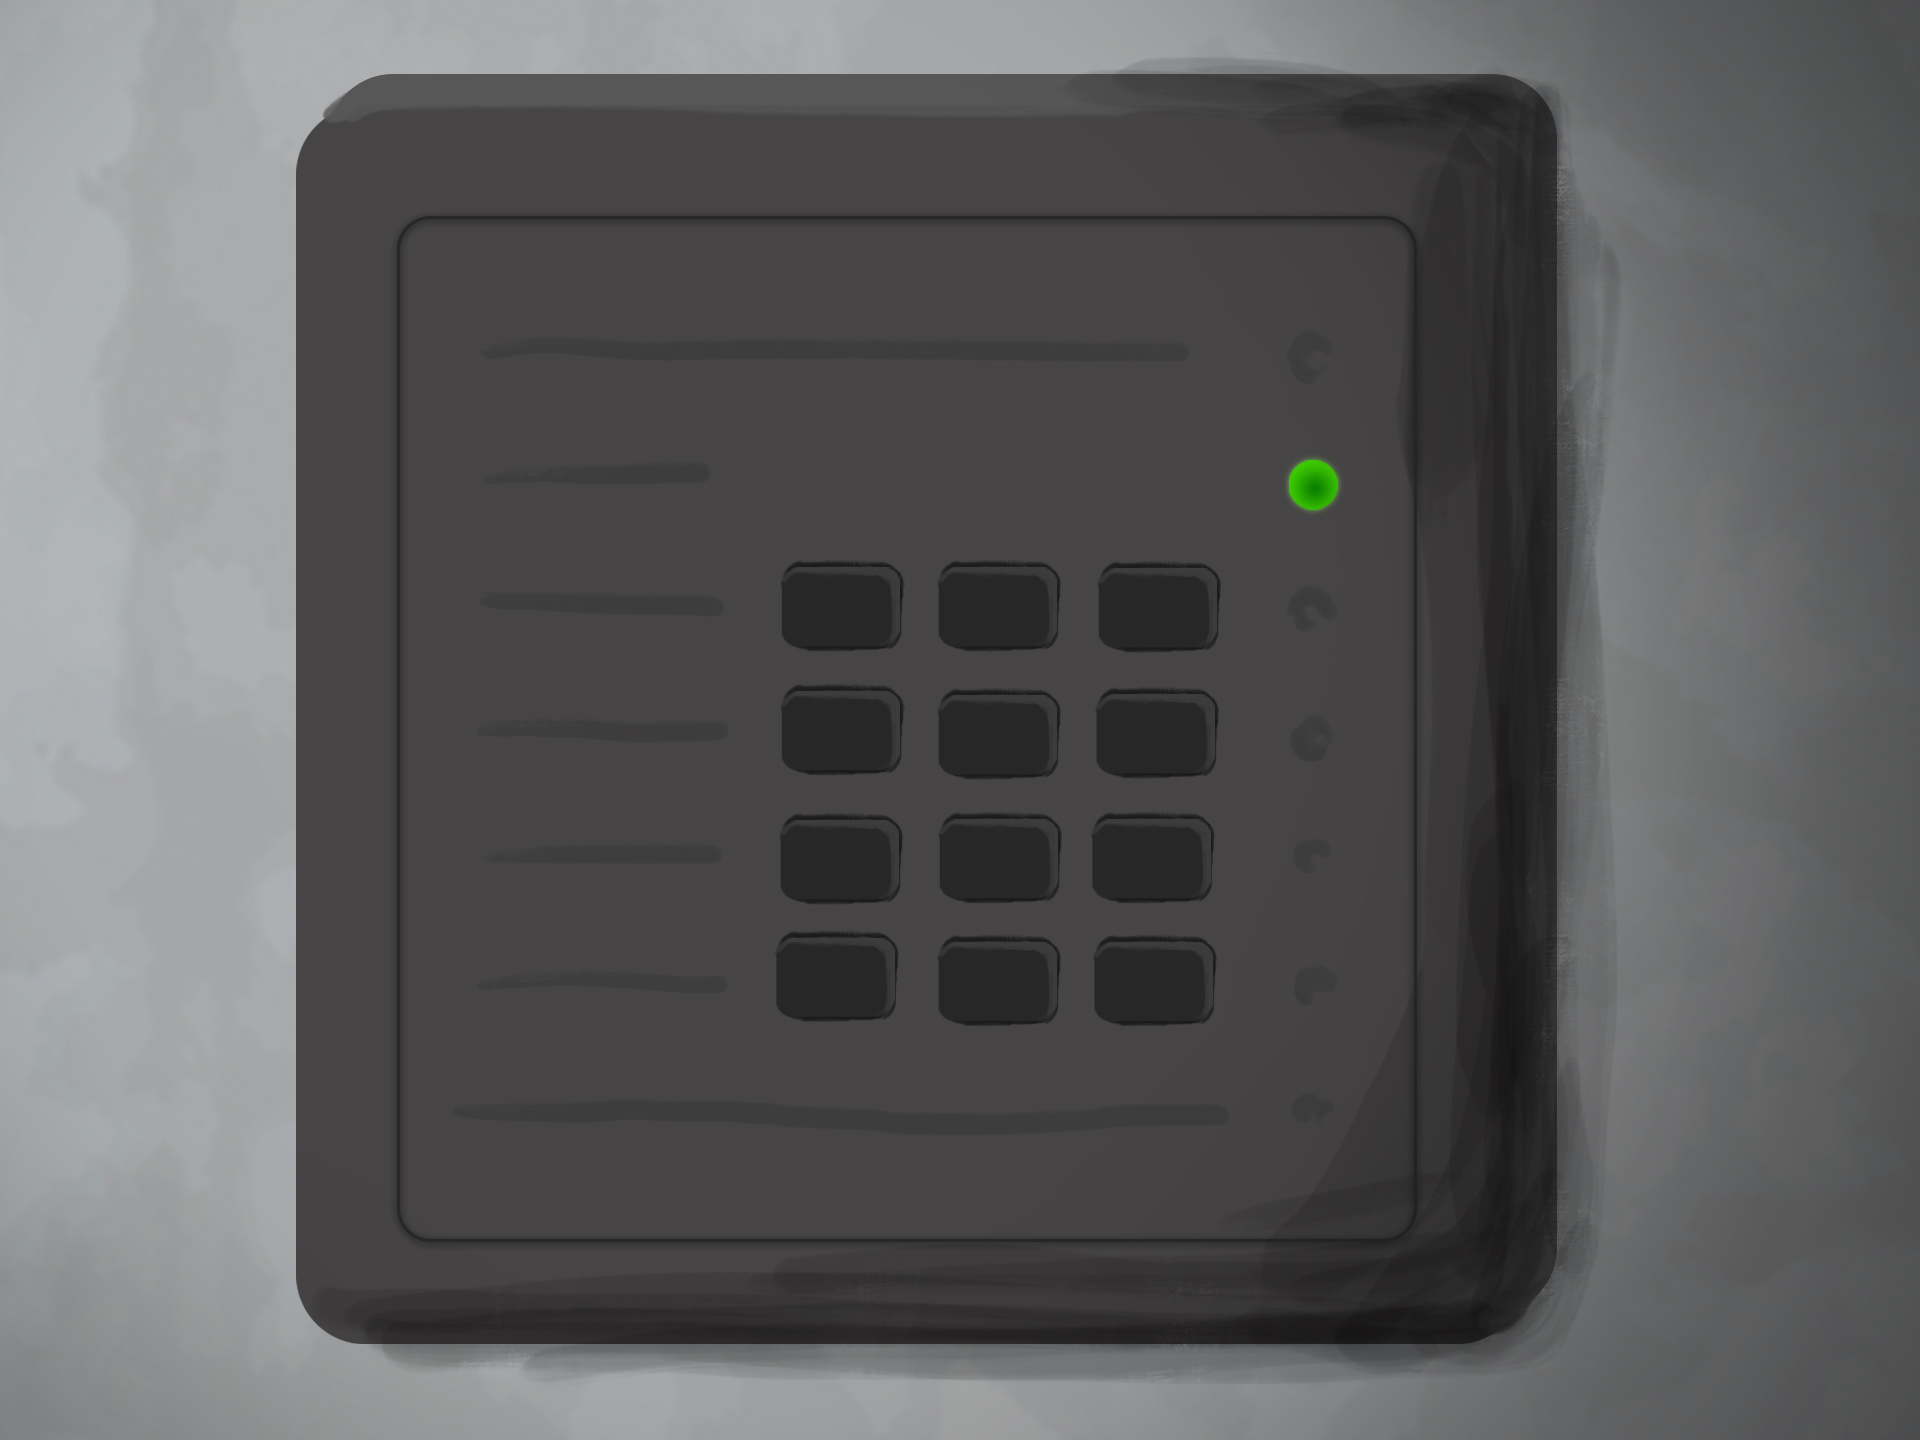
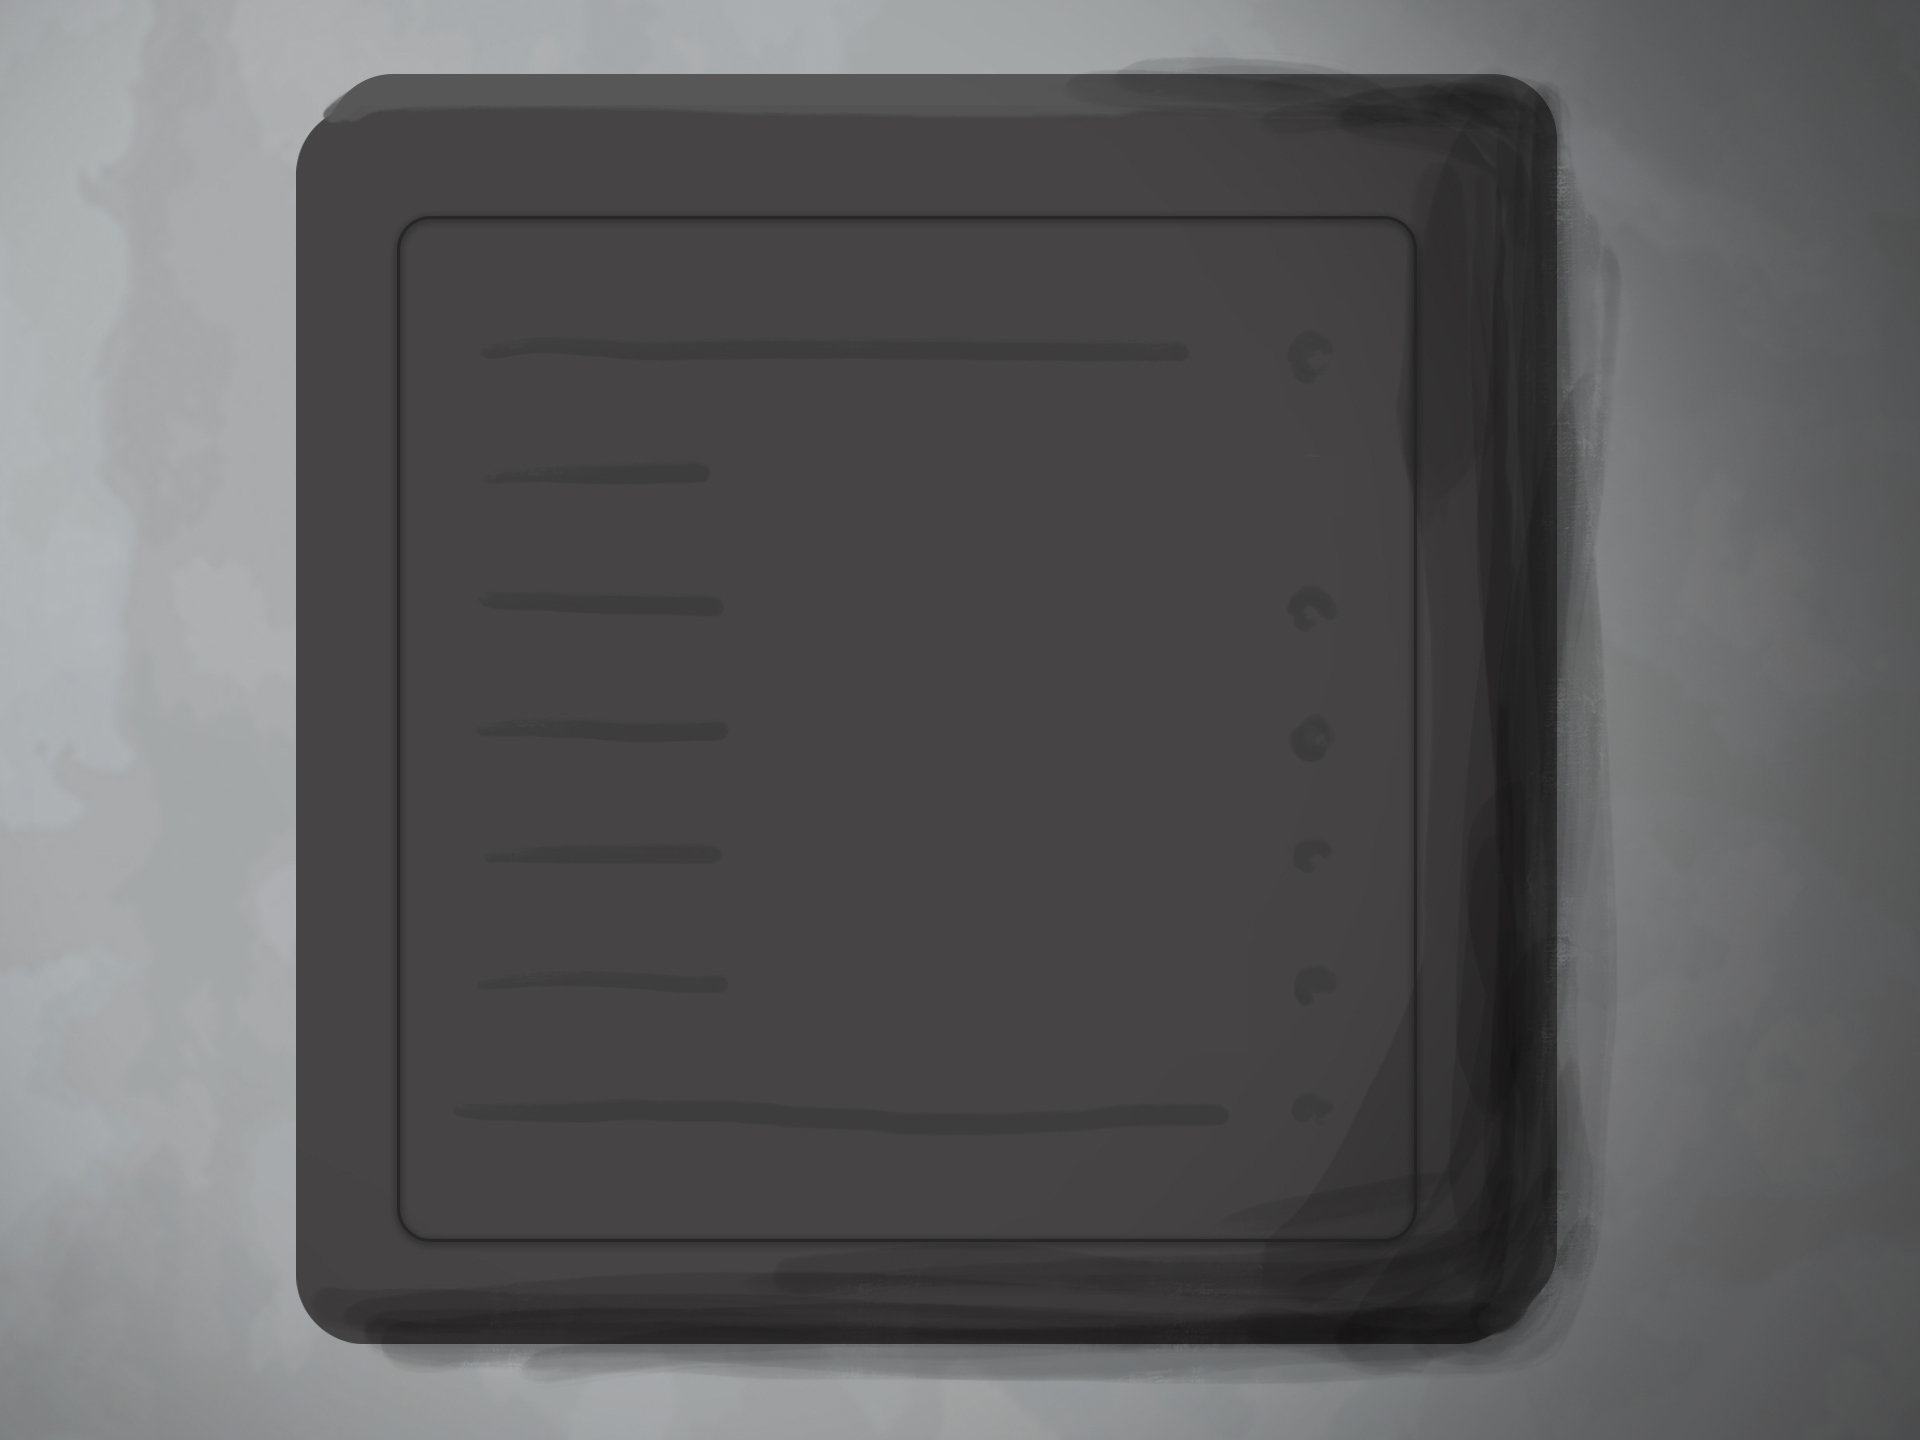
Strongbox first steps

Changed region(s): [[0.4062, 0.375, 0.6562, 0.7188], [0.6562, 0.3125, 0.7188, 0.375]]

diff --git a/apps/strongbox/app/components/App.jsx b/apps/strongbox/app/components/App.jsx
@@ -9,7 +9,6 @@ import * as Utils from '../vendors/Utils.js';
 import * as I18n from '../vendors/I18n.js';
 import * as LocalStorage from '../vendors/Storage.js';
 
-import Header from './Header.jsx';
 import MainScreen from './MainScreen.jsx';
 
 let escapp;
@@ -17,9 +16,6 @@ let escapp;
 export class App extends React.Component {
   constructor(props){
     super(props);
-    this.state = {
-      completionDialogShown:false,
-    };
     this.saveState = this.saveState.bind(this);
     this.onPuzzleCompleted = this.onPuzzleCompleted.bind(this);
     this.reset = this.reset.bind(this);
@@ -65,55 +61,16 @@ export class App extends React.Component {
     this.props.dispatch(loaded(true));
   }
   onPuzzleCompleted(puzzle_id){
-    if(puzzle_id === 7){
-      this.setState({completionDialogShown:false});
-    }
     this.props.dispatch(changePuzzle(puzzle_id));
     this.saveState();
   }
   render(){
-    let appHeader = "";
-    let appContent = "";
-    let currentScreen = this.props.screen;
-
-    console.log("LOADING")
-    console.log(this.props.loading);
-
     if(this.props.loading){
       return "";
     }
 
-    appHeader = (
-      <Header config={GLOBAL_CONFIG} I18n={I18n} isLogged={((currentScreen !== 1) && (this.props.puzzle > 0))} onClickHome={this.onClickHome} onClickMail={this.onClickMail} onClickRepository={this.onClickRepository} onClickInfo={this.onClickInfo} onClickVaccine={this.onClickVaccine} onClickCloseSession={this.onClickCloseSession} current_puzzle={this.props.puzzle}/>
-    );
-
-    console.log("CURRENT SCREEN")
-    console.log(currentScreen);
-
-    switch (currentScreen){
-    case 1:
-      // MainScreen
-      appContent = (
-        <MainScreen dispatch={this.props.dispatch} config={GLOBAL_CONFIG} I18n={I18n} Utils={Utils} escapp={escapp} onPuzzleCompleted={this.onPuzzleCompleted} current_puzzle={this.props.puzzle}/>
-      );
-      break;
-    default:
-      // Default
-    }
-
-    // Finish screen
-    // if((this.props.puzzle > 6) && (this.state.completionDialogShown === false)){
-    //   this.setState({completionDialogShown:true});
-    //   setTimeout(function(){
-    //     escapp.displayCompletionDialog();
-    //   }, 500);
-    // }
-
     return (
-      <div id="container">
-        {appHeader}
-        {appContent}
-      </div>
+        <MainScreen dispatch={this.props.dispatch} config={GLOBAL_CONFIG} I18n={I18n} Utils={Utils} escapp={escapp} onPuzzleCompleted={this.onPuzzleCompleted} current_puzzle={this.props.puzzle}/>
     );
   }
 }

diff --git a/apps/strongbox/app/components/MainScreen.jsx b/apps/strongbox/app/components/MainScreen.jsx
@@ -1,5 +1,6 @@
 import React from 'react';
 import {changeScreen} from '../reducers/actions.jsx';
+import BoxButton from './BoxButton.jsx';
 import './../assets/scss/main.scss';
 
 export default class MainScreen extends React.Component {
@@ -9,8 +10,19 @@ export default class MainScreen extends React.Component {
 
   render(){
     return (
-      <div className="screen_wrapper screen_main">
-        <p>Main Screen</p>
+      <div id="container">
+        <BoxButton value={"1"} position={1}/>
+        <BoxButton value={"2"} position={2}/>
+        <BoxButton value={"3"} position={3}/>
+        <BoxButton value={"4"} position={4}/>
+        <BoxButton value={"5"} position={5}/>
+        <BoxButton value={"6"} position={6}/>
+        <BoxButton value={"7"} position={7}/>
+        <BoxButton value={"8"} position={8}/>
+        <BoxButton value={"9"} position={9}/>
+        <BoxButton value={"*"} position={10}/>
+        <BoxButton value={"0"} position={11}/>
+        <BoxButton value={"#"} position={12}/>
       </div>
     );
   }

diff --git a/apps/strongbox/app/assets/scss/main.scss b/apps/strongbox/app/assets/scss/main.scss
@@ -1,6 +1,39 @@
-div.screen_wrapper.screen_main {
+div#container {
 	background-image: url("../images/background.jpg");
 	background-position: center;
 	background-repeat: no-repeat;
-	background-size: cover; 
+	background-size: contain;
+}
+
+div.boxButton {
+	background-image: url("../images/background_number.jpg");
+	background-position: center;
+	background-repeat: no-repeat;
+	background-size: contain;
+	display: flex;
+	width: 70px;
+	height: 70px;
+	color: white;
+}
+
+div.boxButton li {
+	display: flex;
+	justify-content: center;
+	align-content: center;
+	flex-direction: column;
+	width: 100%;
+	height: 100%;
+	text-align: center;
+	font-size: 2vw;
+	font-family: "Consolas", "Roboto", sans-serif;
+  	-webkit-touch-callout: none;
+    -webkit-user-select: none;
+    -khtml-user-select: none; 
+    -moz-user-select: none;
+    -ms-user-select: none; 
+    user-select: none; 
+}
+
+div.boxButton1 {
+	left: 10%;
 }

diff --git a/apps/template/app/components/App.jsx b/apps/template/app/components/App.jsx
@@ -76,9 +76,6 @@ export class App extends React.Component {
     let appContent = "";
     let currentScreen = this.props.screen;
 
-    console.log("LOADING")
-    console.log(this.props.loading);
-
     if(this.props.loading){
       return "";
     }
@@ -86,9 +83,6 @@ export class App extends React.Component {
     appHeader = (
       <Header config={GLOBAL_CONFIG} I18n={I18n} isLogged={((currentScreen !== 1) && (this.props.puzzle > 0))} onClickHome={this.onClickHome} onClickMail={this.onClickMail} onClickRepository={this.onClickRepository} onClickInfo={this.onClickInfo} onClickVaccine={this.onClickVaccine} onClickCloseSession={this.onClickCloseSession} current_puzzle={this.props.puzzle}/>
     );
-
-    console.log("CURRENT SCREEN")
-    console.log(currentScreen);
 
     switch (currentScreen){
     case 1:

diff --git a/apps/strongbox/app/components/BoxButton.jsx b/apps/strongbox/app/components/BoxButton.jsx
@@ -1,0 +1,18 @@
+import React from 'react';
+import {changeScreen} from '../reducers/actions.jsx';
+
+export default class BoxButton extends React.Component {
+  constructor(props){
+    super(props);
+  }
+
+  render(){
+    return (
+      <div className={"boxButton boxButton" + this.props.position}>
+        <li>
+          <p>{this.props.value}</p>
+        </li>
+      </div>
+    );
+  }
+}

diff --git a/apps/strongbox/app/assets/scss/app.scss b/apps/strongbox/app/assets/scss/app.scss
@@ -2,13 +2,11 @@ html, body, div#root, div#container {
 	min-height: 100%;
 	height: 100%;
 	width: 100%;
+	margin: 0;
+	padding: 0;
+	border: none;
 }
 
-body, div#root, div#container {
-	font-family: "Consolas", "Roboto", sans-serif;
-	font-size: 13px;
-    color: rgb(41, 47, 51);
-  	background-color: white;
-  	padding: 0px;
-    margin: 0px;
+html, body, div#root {
+	background: #464445;
 }

diff --git a/apps/strongbox/app/reducers/reducers.jsx b/apps/strongbox/app/reducers/reducers.jsx
@@ -1,11 +1,9 @@
 import {combineReducers} from 'redux';
 import loadingReducer from './loadingReducer';
-import screenReducer from './screenReducer';
 import puzzleReducer from './puzzleReducer';
 
 const GlobalState = combineReducers({
   loading:loadingReducer,
-  screen:screenReducer,
   puzzle:puzzleReducer,
 });
 

diff --git a/apps/strongbox/app/reducers/actions.jsx b/apps/strongbox/app/reducers/actions.jsx
@@ -19,13 +19,6 @@ export function loaded(is_loaded = true){
   };
 }
 
-export function changeScreen(screen = 1){
-  return {
-    type:'CHANGE_SCREEN',
-    screen:screen,
-  };
-}
-
 export function changePuzzle(puzzle_id = 0){
   return {
     type:'CHANGE_PUZZLE',

diff --git a/apps/strongbox/app/constants/constants.jsx b/apps/strongbox/app/constants/constants.jsx
@@ -1,5 +1,4 @@
 export const INITIAL_STATE = {
   loading:true,
-  screen:1,
   puzzle:0,
 };
